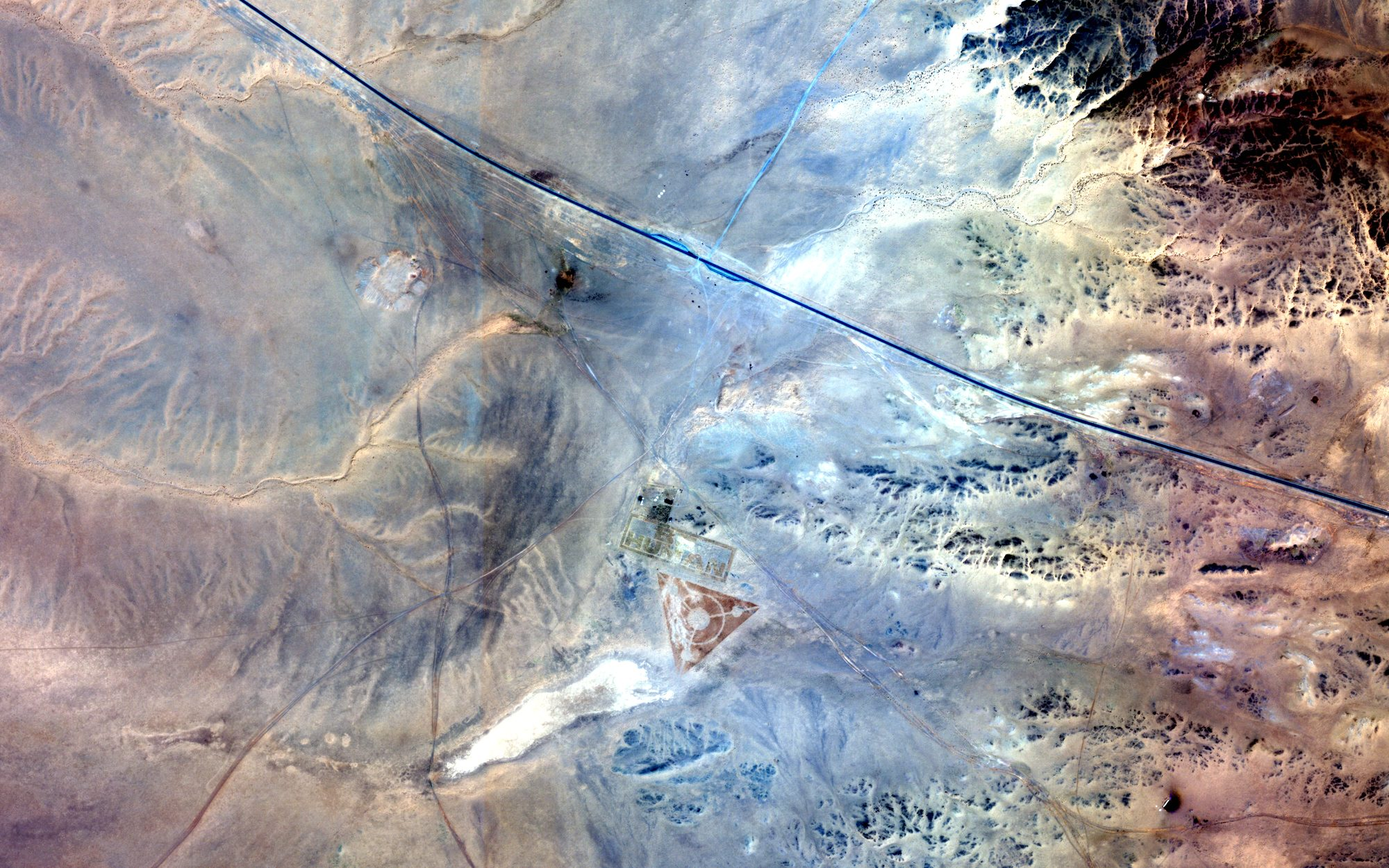
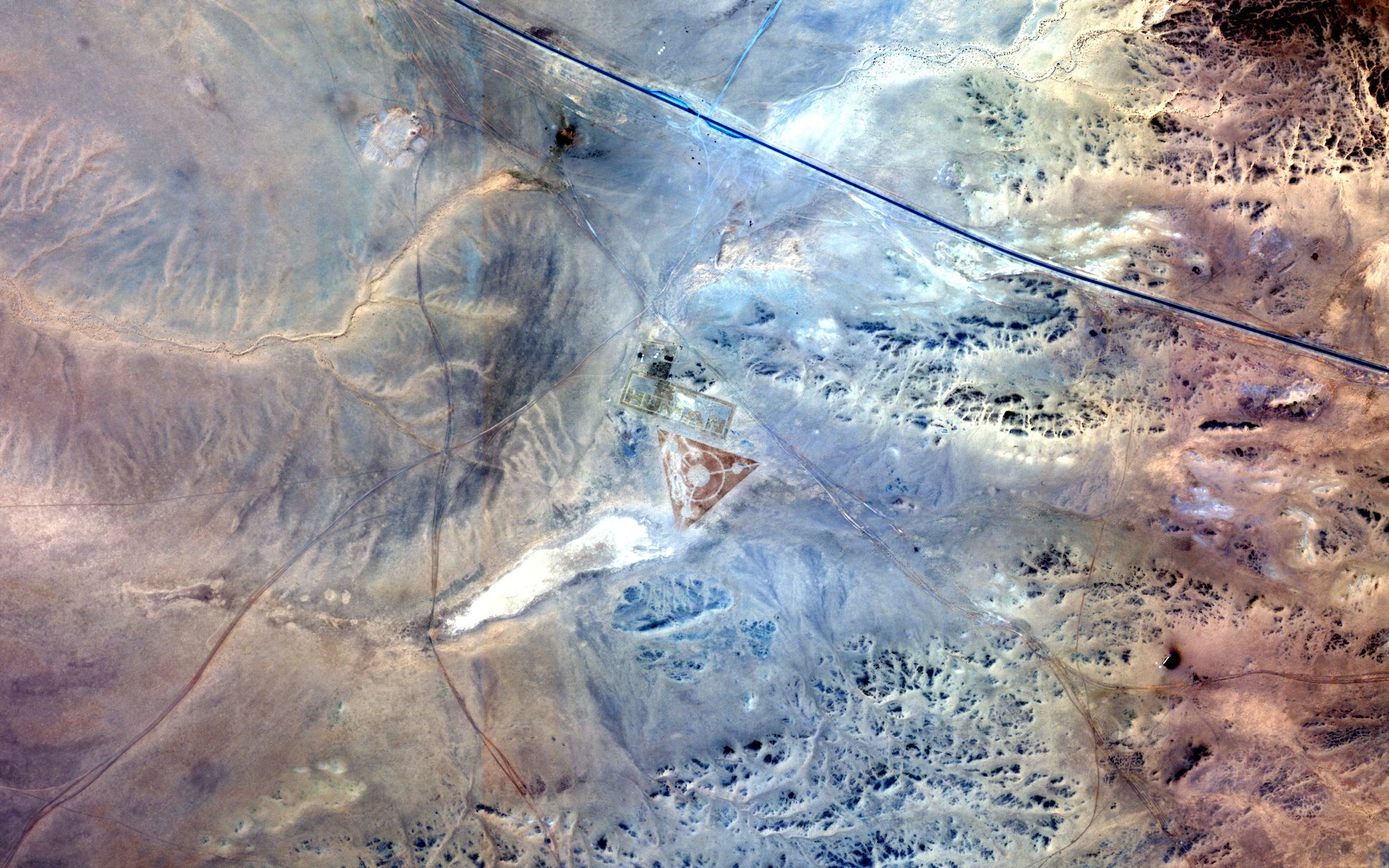
Empty the hero of type and centre the photograph in it
The headline and the two buttons are gone, so nothing is laid over the
picture any more. Both files are recut with the land arts on the centre
line: they were pushed low only to keep clear of the buttons, and under
cover a centred band stays centred whatever the card's proportions.

The BE HUMAN 2026 stage now credits Google Earth Engine for the last two
years of satellite data rather than an audit against EOS, and ART N TECH
opens on the design having been drawn in 2021.

diff --git a/index.html b/index.html
@@ -888,16 +888,6 @@
             <div class="hero-image"></div>
             <div class="container">
                 <div class="content-wrap text-center">
-                    <div class="title text-display-2 effectFade fadeRotateX">
-                    </div>
-                    <div class="bot-btns effectFade fadeRotateX">
-                        <a href="#satellite" class="tf-btn">
-                            Satellite data
-                        </a>
-                        <a href="#works" class="tf-btn-2">
-                            Projects
-                        </a>
-                    </div>
                 </div>
             </div>
             <a href="#land-arts" class="scroll-more">
@@ -2713,8 +2703,8 @@ else{ document.getElementById('hxBoot').textContent='3D VIEW COULD NOT LOAD'; }
          'the soil. Ultimately, this restored micro-ecosystem facilitates the return of local '+
          'biodiversity, such as butterflies and hares.'},
       {f:1.02,th:1.571,ph:.24,g:.80,y:'2026',l:'five years on',n:'(07)',h:'Data Maturation',
-       p:'Five years after planting, this 30,000-square-meter site is fully established and '+
-         'audited in 2026 against satellite data from EOS and Google Earth Engine.'}],
+       p:'Five years after planting, this 30,000-square-meter site is fully established. The '+
+         'satellite data for the last two years was drawn from <b>Google Earth Engine</b>.'}],
     artntech:[
       {f:1.00,th:1.571,ph:.32,g:0,y:'2021',l:'site preparation',n:'(01)',h:'Four Circles, Four Seasons',
        p:'This precise geometry, the central ring combined with the three corner nodes, creates a '+
